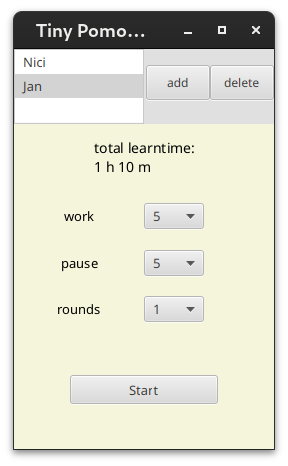
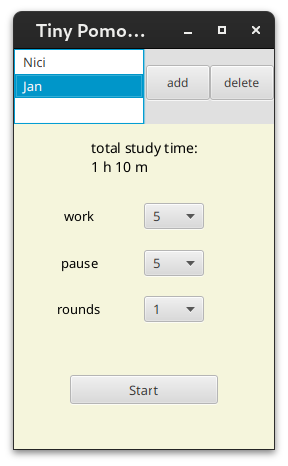
fix screenshot

Changed region(s): [[0.0312, 0.0901, 0.5312, 0.2704], [0.3125, 0.3004, 0.6875, 0.3906]]

diff --git a/src/main/java/de/tiny/MainController.java b/src/main/java/de/tiny/MainController.java
@@ -102,7 +102,7 @@ public class MainController implements Initializable {
         if (selectedProfile != null) {
             String totalLearnTime = profileController.getLearnTime(selectedProfile);
 
-            learnTimeText.setText("total learntime: \n" + totalLearnTime);
+            learnTimeText.setText("total study time: \n" + totalLearnTime);
         } else {
             learnTimeText.setText("Kein Profil ausgewählt");
          }
